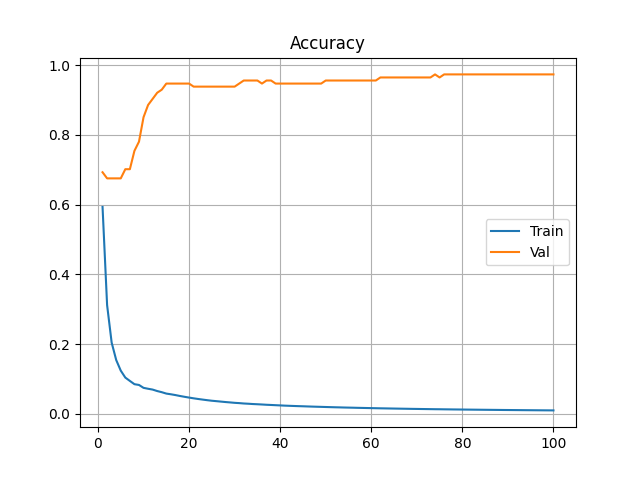
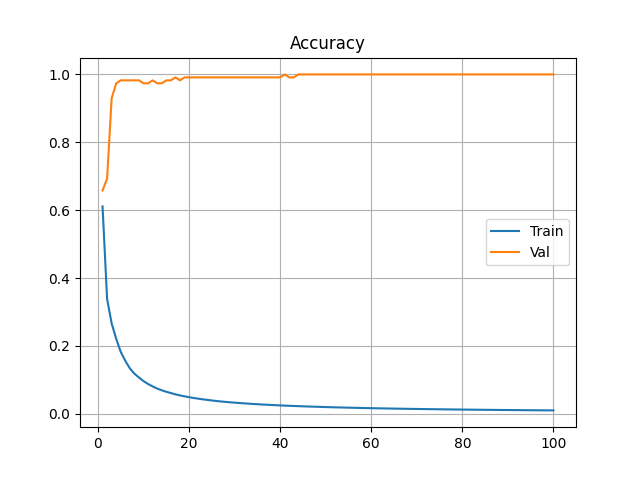
args

diff --git a/src/main.py b/src/main.py
@@ -29,38 +29,53 @@ def main():
     X_train, X_valid = normalize(X_train, X_valid)
     # print (X_train.shape[1])
 
-
     parser = argparse.ArgumentParser()
     parser.add_argument("-b", "--batch", default=10, help="set the batch size")
     parser.add_argument("-n", "--epochs", default=100, help="set the number of epochs")
     parser.add_argument("-a", "--activation", default="sigmoid", help="set the activation function (sigmoid/relu)")
-    parser.add_argument("-l", "--learning_rate", default=0.01, help="set the learning rate")
+    parser.add_argument("-r", "--learning_rate", default=0.05, help="set the learning rate")
     parser.add_argument("-v", "--verbose", action="store_true", help="set verbose output")
+    parser.add_argument("-l", "--layers", default="24 24 24", help="layers (24 24 24)")
     args = parser.parse_args()
 
     if (args.activation not in ["sigmoid", "relu"]):
         print (f"Invalid activation function: {args.activation}.")
         sys.exit(1)
-    else:
-        print (f"Using activation function: {args.activation}")
 
     if (int(args.batch) <= 0 or int(args.batch) > len(X_train)):
         print (f"Invalid batch size: {args.batch}.")
         sys.exit(1)
-    else:    
-        print (f"Using batch size: {args.batch}")
 
     if (int(args.epochs) <= 0):
         print (f"Invalid number of epochs: {args.epochs}.")
         sys.exit(1)
-    else:    
-        print (f"Using epochs: {args.epochs}")
 
     if (float(args.learning_rate) <= 0.00001 or float(args.learning_rate) > 100 or not isinstance(float(args.learning_rate), float)):
         print (f"Invalid learning rate: {args.learning_rate}. Setting to 0.01.")
         sys.exit(1)
-    else:    
-        print (f"Using learning rate: {args.learning_rate}")
+
+    words = args.layers.split()
+    layers = []
+    for w in words:
+        try:
+            n = int(w)
+            if n < 2 or n > 100:
+                print (f"Size of layer must be 2-100")
+                sys.exit(1)
+            layers.append(n)
+        except ValueError:
+            print (f"Layers must be array of numbers 2-100")
+            sys.exit(1)
+
+    if len(layers) < 2 or len(layers) > 100:
+        print (f"Count of layers must be 2-100")
+        sys.exit(1)
+
+    print (f"Using activation function: {args.activation}")
+    print (f"Using layers: {layers}.")
+    print (f"Using batch size: {args.batch}")
+    print (f"Using epochs: {args.epochs}")
+    print (f"Using learning rate: {args.learning_rate}")
 
     network = Network()
     network.add(DenseLayer(X_train.shape[1], 16))